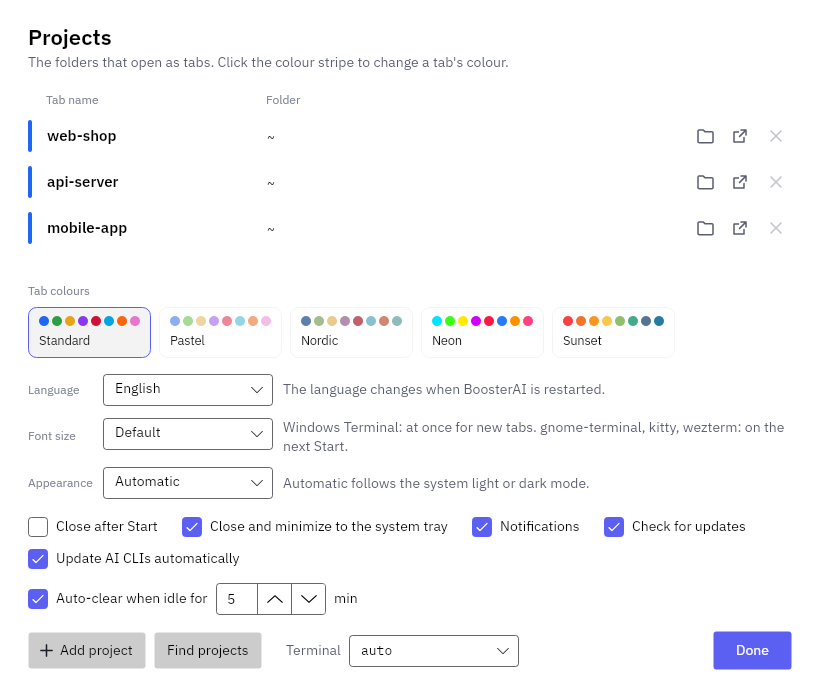
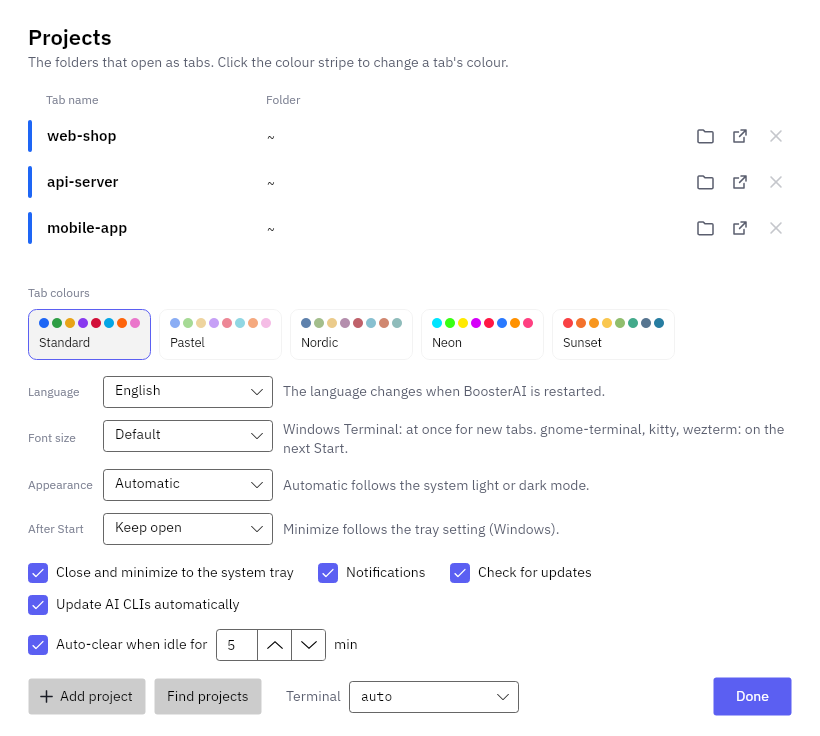
Keep the window open after Start by default, with an After Start setting (#72)
Start always minimized the window, which with the tray setting on hid it and
looked like BoosterAI had closed. The Close after Start checkbox is replaced by
After Start: keep open (default), minimize or close. An old
CloseAfterLaunch=true without AfterLaunch reads as close. Windows still shows
the tray icon after Start when the window stays open.

diff --git a/src/BoosterAI/Config.cs b/src/BoosterAI/Config.cs
@@ -34,9 +34,10 @@ public sealed class AppConfig
     public string Language { get; set; } = Loc.Auto;
     /// <summary>App appearance: "auto" (follow the system), "light" or "dark". Applied live. Not the tab colour themes.</summary>
     public string AppTheme { get; set; } = "auto";
-    /// <summary>Close after Start (the behaviour before tab monitoring) instead of watching the tabs from the tray.</summary>
-    public bool CloseAfterLaunch { get; set; }
-    /// <summary>Windows: the close button and Minimize hide the window to the tray icon, where the tabs stay watched. Needs a working tray; Close after Start wins.</summary>
+    /// <summary>What the window does after Start: "keep" (stays open, default), "minimize" or "close", see <see cref="AfterLaunchPolicy"/>.
+    /// An old config with <c>"CloseAfterLaunch": true</c> and no value here reads as "close" (<see cref="ConfigStore.Parse"/>).</summary>
+    public string AfterLaunch { get; set; } = AfterLaunchPolicy.Keep;
+    /// <summary>Windows: the close button and Minimize hide the window to the tray icon, where the tabs stay watched. Needs a working tray; "close after Start" closes the app regardless.</summary>
     public bool MinimizeToTray { get; set; } = true;
     /// <summary>System notification when a watched tab closes, fails to start or its CLI fails.</summary>
     public bool Notifications { get; set; } = true;
@@ -87,7 +88,7 @@ public static class ConfigStore
         {
             if (File.Exists(PathOnDisk))
             {
-                var cfg = JsonSerializer.Deserialize(File.ReadAllText(PathOnDisk), ConfigJsonContext.Default.AppConfig);
+                var cfg = Parse(File.ReadAllText(PathOnDisk));
                 if (cfg is not null) return cfg;
             }
         }
@@ -98,12 +99,26 @@ public static class ConfigStore
         return Defaults();
     }
 
+    /// <summary>Deserializes a config file and migrates old settings: no "AfterLaunch" but <c>"CloseAfterLaunch": true</c> means close.</summary>
+    public static AppConfig? Parse(string json)
+    {
+        var cfg = JsonSerializer.Deserialize(json, ConfigJsonContext.Default.AppConfig);
+        if (cfg is null) return null;
+        using var doc = JsonDocument.Parse(json);
+        var root = doc.RootElement;
+        if (root.ValueKind == JsonValueKind.Object && !root.TryGetProperty(nameof(AppConfig.AfterLaunch), out _)
+            && root.TryGetProperty("CloseAfterLaunch", out var old) && old.ValueKind == JsonValueKind.True)
+            cfg.AfterLaunch = AfterLaunchPolicy.Close;
+        cfg.AfterLaunch = AfterLaunchPolicy.Normalize(cfg.AfterLaunch);
+        return cfg;
+    }
+
     /// <summary>The config as it is on disk now, or null when there is none or it cannot be read; never migrates.</summary>
     public static AppConfig? TryRead()
     {
         try
         {
-            return File.Exists(PathOnDisk) ? JsonSerializer.Deserialize(File.ReadAllText(PathOnDisk), ConfigJsonContext.Default.AppConfig) : null;
+            return File.Exists(PathOnDisk) ? Parse(File.ReadAllText(PathOnDisk)) : null;
         }
         catch (Exception e) when (e is IOException or JsonException or UnauthorizedAccessException) { return null; }
     }
@@ -144,7 +159,7 @@ public static class ConfigMerge
         S(c => c.ColorTheme, (c, v) => c.ColorTheme = v),
         S(c => c.Language, (c, v) => c.Language = v),
         S(c => c.AppTheme, (c, v) => c.AppTheme = v),
-        S(c => c.CloseAfterLaunch, (c, v) => c.CloseAfterLaunch = v),
+        S(c => c.AfterLaunch, (c, v) => c.AfterLaunch = v),
         S(c => c.MinimizeToTray, (c, v) => c.MinimizeToTray = v),
         S(c => c.Notifications, (c, v) => c.Notifications = v),
         S(c => c.ZoomPercent, (c, v) => c.ZoomPercent = v),

diff --git a/tests/BoosterAI.Tests/AfterLaunchTests.cs b/tests/BoosterAI.Tests/AfterLaunchTests.cs
@@ -1,0 +1,74 @@
+using BoosterAI;
+using Xunit;
+
+public class AfterLaunchPolicyTests
+{
+    [Theory]
+    [InlineData("keep", false, false, false, false)]
+    [InlineData("keep", true, false, true, false)]
+    [InlineData("minimize", false, false, false, true)]
+    [InlineData("minimize", true, false, true, true)]
+    [InlineData("close", false, true, false, false)]
+    [InlineData("close", true, true, false, false)]
+    [InlineData(null, true, false, true, false)]
+    [InlineData("nonsense", false, false, false, false)]
+    public void DecidesTheWindowActionsAfterStart(string? mode, bool windows, bool close, bool tray, bool minimize) =>
+        Assert.Equal((close, tray, minimize), AfterLaunchPolicy.Decide(mode, windows));
+
+    [Fact]
+    public void DefaultKeepsTheWindowOpen() => Assert.Equal("keep", new AppConfig().AfterLaunch);
+}
+
+[Collection(ConfigFileCollection.Name)]
+public class AfterLaunchConfigTests : IDisposable
+{
+    private readonly string _root = Path.Combine(Path.GetTempPath(), "bs-after-" + Guid.NewGuid().ToString("N"));
+
+    public AfterLaunchConfigTests()
+    {
+        Directory.CreateDirectory(_root);
+        ConfigStore.UseFile(Path.Combine(_root, "config.json"));
+    }
+
+    public void Dispose() => Directory.Delete(_root, recursive: true);
+
+    private static AppConfig Load(string json)
+    {
+        File.WriteAllText(ConfigStore.PathOnDisk, json);
+        return ConfigStore.Load();
+    }
+
+    [Fact]
+    public void OldCloseAfterLaunchTrueMeansClose() =>
+        Assert.Equal("close", Load("""{"CloseAfterLaunch": true, "Tabs": []}""").AfterLaunch);
+
+    [Theory]
+    [InlineData("""{"CloseAfterLaunch": false}""")]
+    [InlineData("""{"Tabs": []}""")]
+    [InlineData("""{"AfterLaunch": "bogus"}""")]
+    public void MissingOrOldFalseOrUnknownKeepsOpen(string json) => Assert.Equal("keep", Load(json).AfterLaunch);
+
+    [Fact]
+    public void NewValueWinsOverTheOldOne() =>
+        Assert.Equal("minimize", Load("""{"CloseAfterLaunch": true, "AfterLaunch": "minimize"}""").AfterLaunch);
+
+    [Theory]
+    [InlineData("keep")]
+    [InlineData("minimize")]
+    [InlineData("close")]
+    public void ValueRoundTrips(string mode)
+    {
+        ConfigStore.Save(new AppConfig { AfterLaunch = mode });
+        Assert.Equal(mode, ConfigStore.Load().AfterLaunch);
+        Assert.Equal(mode, ConfigStore.TryRead()!.AfterLaunch);
+    }
+
+    [Fact]
+    public void ViewModelChoiceIsStored()
+    {
+        var vm = new MainViewModel(new AppConfig { AfterLaunch = "close" });
+        Assert.Equal("close", vm.SelectedAfterLaunch.Id);
+        vm.SelectedAfterLaunch = vm.AfterLaunchChoices.Single(c => c.Id == "minimize");
+        Assert.Equal("minimize", vm.AfterLaunch);
+    }
+}

diff --git a/src/BoosterAI/ViewModels.cs b/src/BoosterAI/ViewModels.cs
@@ -442,7 +442,20 @@ public sealed partial class MainViewModel : Observable
     public IReadOnlyList<LanguageChoice> LanguageChoices { get; } =
         [new(Loc.Auto), new("sv"), new("en")];
 
-    public bool CloseAfterLaunch { get => _cfg.CloseAfterLaunch; set { _cfg.CloseAfterLaunch = value; Raise(); } }
+    /// <summary>"After Start" setting: keep the window open, minimize it, or close it.</summary>
+    public IReadOnlyList<AfterLaunchChoice> AfterLaunchChoices { get; } = [.. AfterLaunchPolicy.All.Select(m => new AfterLaunchChoice(m))];
+    public string AfterLaunch => AfterLaunchPolicy.Normalize(_cfg.AfterLaunch);
+
+    public AfterLaunchChoice SelectedAfterLaunch
+    {
+        get => AfterLaunchChoices.First(c => c.Id == AfterLaunch);
+        set
+        {
+            if (value is null || value.Id == AfterLaunch) return;
+            _cfg.AfterLaunch = value.Id;
+            Raise();
+        }
+    }
     public bool MinimizeToTray { get => _cfg.MinimizeToTray; set { _cfg.MinimizeToTray = value; Raise(); } }
     public bool Notifications { get => _cfg.Notifications; set { _cfg.Notifications = value; Raise(); } }
     public bool AutoUpdateClis { get => _cfg.AutoUpdateClis; set { _cfg.AutoUpdateClis = value; Raise(); } }
@@ -627,7 +640,7 @@ public sealed partial class MainViewModel : Observable
     private void SettingsTakenOver()
     {
         foreach (var name in new[] { nameof(WslDistro), nameof(LinuxTerminal), nameof(Theme), nameof(SelectedTheme), nameof(SelectedLanguage),
-            nameof(SelectedAppearance), nameof(CloseAfterLaunch), nameof(MinimizeToTray), nameof(Notifications), nameof(SelectedZoom), nameof(AutoUpdateClis), nameof(AutoClearIdle), nameof(AutoClearMinutes), nameof(CheckForUpdates) })
+            nameof(SelectedAppearance), nameof(SelectedAfterLaunch), nameof(MinimizeToTray), nameof(Notifications), nameof(SelectedZoom), nameof(AutoUpdateClis), nameof(AutoClearIdle), nameof(AutoClearMinutes), nameof(CheckForUpdates) })
             Raise(name);
         foreach (var t in Tabs) t.RaiseColor();
         (Avalonia.Application.Current as App)?.ApplyTheme();
@@ -1196,6 +1209,12 @@ public sealed record LanguageChoice(string Id)
 public sealed record ThemeChoice(string Id)
 {
     public string Label => Loc.Get("theme." + Id);
+}
+
+/// <summary>One entry of the "After Start" picker: "keep", "minimize" or "close".</summary>
+public sealed record AfterLaunchChoice(string Id)
+{
+    public string Label => Loc.Get("afterLaunch." + Id);
 }
 
 /// <summary>One entry of the zoom picker; 0 means the terminal's default size.</summary>

diff --git a/src/BoosterAI/MainWindow.axaml.cs b/src/BoosterAI/MainWindow.axaml.cs
@@ -131,14 +131,12 @@ public partial class MainWindow : Window
     private void OnLaunch(object? sender, RoutedEventArgs e)
     {
         if (!_vm.Launch()) return;
-        if (_vm.CloseAfterLaunch) Close();
-        else
-        {
-            // With the tray setting on (and a tray), minimizing hides the window to the tray icon; otherwise the
-            // taskbar button stays, so the status is one click away. Windows also gets a tray icon either way.
-            if (OperatingSystem.IsWindows() && Application.Current is App app) app.ShowTray(this);
-            WindowState = WindowState.Minimized;
-        }
+        var (close, showTray, minimize) = AfterLaunchPolicy.Decide(_vm.AfterLaunch, OperatingSystem.IsWindows());
+        if (close) { Close(); return; }
+        // Windows gets the tray icon whether the window stays open or is minimized. With the tray setting on (and a
+        // tray), minimizing hides the window to the tray icon; otherwise the taskbar button stays.
+        if (showTray && Application.Current is App app) app.ShowTray(this);
+        if (minimize) WindowState = WindowState.Minimized;
     }
 
     private async void OnUpdateInstall(object? sender, RoutedEventArgs e)

diff --git a/src/BoosterAI/TrayPolicy.cs b/src/BoosterAI/TrayPolicy.cs
@@ -15,3 +15,20 @@ public static class TrayPolicy
     /// <summary>True when minimizing should hide the window from the taskbar and leave only the tray icon.</summary>
     public static bool HideOnMinimize(bool minimizeToTray, bool trayAvailable) => minimizeToTray && trayAvailable;
 }
+
+/// <summary>The "After Start" setting: what the main window does once Start has opened the tabs.</summary>
+public static class AfterLaunchPolicy
+{
+    public const string Keep = "keep", Minimize = "minimize", Close = "close";
+    public static readonly string[] All = [Keep, Minimize, Close];
+
+    /// <summary>An unknown or missing value reads as <see cref="Keep"/>.</summary>
+    public static string Normalize(string? mode) => mode is Minimize or Close ? mode : Keep;
+
+    /// <summary>The window actions after Start. Windows shows the tray icon unless the app closes.</summary>
+    public static (bool Close, bool ShowTray, bool Minimize) Decide(string? mode, bool windows)
+    {
+        mode = Normalize(mode);
+        return (mode == Close, windows && mode != Close, mode == Minimize);
+    }
+}

diff --git a/tests/BoosterAI.Tests/ConfigSaveTests.cs b/tests/BoosterAI.Tests/ConfigSaveTests.cs
@@ -78,7 +78,7 @@ public class ConfigMergeTests
         var disk = new AppConfig
         {
             WslDistro = "Debian", LinuxTerminal = "kitty", ColorTheme = "Other", Language = "en", AppTheme = "dark",
-            CloseAfterLaunch = true, MinimizeToTray = false, Notifications = false, ZoomPercent = 80, AutoUpdateClis = false, CheckForUpdates = false,
+            AfterLaunch = "close", MinimizeToTray = false, Notifications = false, ZoomPercent = 80, AutoUpdateClis = false, CheckForUpdates = false,
             AutoClearIdle = true, AutoClearMinutes = 10,
             SkippedVersion = "9.9.9", LastUpdateCheck = new DateTime(2026, 10, 29, 9, 18, 39, DateTimeKind.Utc),
         };

diff --git a/docs/DETAILS.md b/docs/DETAILS.md
@@ -110,7 +110,7 @@ The setting is read when a tab starts or restarts in place: turn it on, then sta
 
 ## Watching the tabs
 
-After **Start**, BoosterAI stays running and shows a status per tab: *Starting…*, *Running*, *Watching* (Run once only: a turn ended and the CLI waits), *CLI exited (code)*, *CLI not found*, *Did not start*, *Tab closed* or *Lost*. On Windows the window then goes to the tray icon (Windows may tuck it behind the ^ arrow): the close button (X, Alt+F4) and Minimize hide it from the taskbar instead of quitting, and a click on the icon or *Show BoosterAI* brings it back; *Quit* in the icon's menu really quits, as does an update install. This is the *Close and minimize to the system tray* setting (`"MinimizeToTray"` in `config.json`, on by default); with it off, or if the tray icon cannot be shown, Minimize leaves a taskbar button and closing the window quits BoosterAI. *Close after Start* still wins and closes the app after Start. Linux gets no tray icon and keeps that taskbar behaviour, because many desktops (plain GNOME, for example) have no tray. A tab that has closed or whose CLI has exited gets a restart button. The button starts the same AI, model and orchestra choice. If the CLI exited while the tracked shell remains alive, it queues `RestartScript` through `QueueNext` and runs it in that same tab, preserving the title, track and log. The next `cli-start` changes the status back to Running. This also applies to Continue and Run once, regardless of selections edited since launch. PID and `/proc` start time must match; a closed or reused PID is never treated as a live shell. Tabs opened by older builds without the idle-shell restart capability use the closed-tab fallback.
+After **Start**, BoosterAI stays running and shows a status per tab: *Starting…*, *Running*, *Watching* (Run once only: a turn ended and the CLI waits), *CLI exited (code)*, *CLI not found*, *Did not start*, *Tab closed* or *Lost*. What the window does after Start is the *After Start* setting (`"AfterLaunch"` in `config.json`): `keep` (the default) leaves it open, `minimize` minimizes it, `close` closes BoosterAI. An old `"CloseAfterLaunch": true` without `"AfterLaunch"` reads as `close`. On Windows the tray icon is shown after Start in the keep and minimize cases; with *Close and minimize to the system tray* on, minimizing hides the window there (Windows may tuck the icon behind the ^ arrow): the close button (X, Alt+F4) and Minimize hide it from the taskbar instead of quitting, and a click on the icon or *Show BoosterAI* brings it back; *Quit* in the icon's menu really quits, as does an update install. This is the *Close and minimize to the system tray* setting (`"MinimizeToTray"` in `config.json`, on by default); with it off, or if the tray icon cannot be shown, Minimize leaves a taskbar button and closing the window quits BoosterAI. Choosing *Close* after Start closes the app regardless. Linux gets no tray icon and keeps that taskbar behaviour, because many desktops (plain GNOME, for example) have no tray. A tab that has closed or whose CLI has exited gets a restart button. The button starts the same AI, model and orchestra choice. If the CLI exited while the tracked shell remains alive, it queues `RestartScript` through `QueueNext` and runs it in that same tab, preserving the title, track and log. The next `cli-start` changes the status back to Running. This also applies to Continue and Run once, regardless of selections edited since launch. PID and `/proc` start time must match; a closed or reused PID is never treated as a live shell. Tabs opened by older builds without the idle-shell restart capability use the closed-tab fallback.
 
 For a closed or lost tab, Windows keeps `wt -w <session> new-tab`. Linux deliberately opens a new window: Ptyxis `--tab` and gnome-terminal/xfce4-terminal `--tab` select an active/last window, and BoosterAI has no verified target for the session's window. Konsole's `--new-tab` also lacks a verified session target, so each call uses `--separate`. Kitty, wezterm and xterm likewise keep their new-window behavior. This prevents a restart from entering an unrelated terminal window. A batch of closed tabs restarted together shares one fresh window in Ptyxis, gnome-terminal and xfce4-terminal; Konsole and the other terminals use separate windows. If the session window is gone, the same fallback applies. `--dry-run` prints the explicit join-request fallback for every terminal.
 
@@ -126,7 +126,7 @@ The status shows *Running* while terminal output is arriving and *Idle* after 60
 
 **Tabs that already run.** Each started tab saves its choices next to its log (`tabN.tab.json`). When BoosterAI starts, for example after an update, it looks through the session directories for tabs whose shell is still alive (same PID and start time in `/proc`, no *exit* in the log). Each one is matched to the configured tab with the same name and directory and is watched again, with status, restart and in-place restart, and the status line briefly says how many running tabs were found. That startup notice disappears when the first recovered tab changes state (for example its CLI exits or the tab closes), a new launch or restart starts, or another status replaces it. A delayed recovery lookup never overwrites a newer status. A recovered claude tab keeps auto-clear when it was started with it (its log says so). If the choice has changed since that tab was started, it shows *Running – new choice*. **Start** opens only the chosen tabs that are not running: the button counts those, says *All chosen tabs are running* when there are none, and opens new tabs in the window of the newest session it found. A session older than two days is kept while one of its tabs still runs.
 
-When something unexpected happens (a tab closes, does not start, or its CLI exits with an error), BoosterAI shows a system notification. On Windows this is a toast. On Linux it uses `notify-send` when that is installed. In *Settings* you can turn **Notifications** off, and you can choose **Close after Start** to get the old behaviour back.
+When something unexpected happens (a tab closes, does not start, or its CLI exits with an error), BoosterAI shows a system notification. On Windows this is a toast. On Linux it uses `notify-send` when that is installed. In *Settings* you can turn **Notifications** off, and you can set **After Start** to *Close* to get the old behaviour back.
 
 How it works: each Start creates a session folder (`%LOCALAPPDATA%\BoosterAI\sessions\…` on Windows, which WSL writes to through `/mnt/c`, or `~/.local/share/BoosterAI/sessions/…` on Linux) containing a small `tab-lib.sh`. Each tab's shell sources that script, and it appends `start` (PID and start time), `cli-start`, `cli-exit rc=N` and `exit` to the tab's log. Interactive commands run through `script`, which records their output timing (the activity) and the output itself for the status popup (see below). The wrapper keeps `~/.bashrc` aliases and shell functions available. If the library cannot be loaded, the CLI (including Run once) or plain shell still starts in its project directory without tracking, output capture or status hooks, and leaves a normal shell afterwards. Aliases, arguments and explicit continuation are kept; Run once uses plain CLI output instead of the stream formatter. No status log is fabricated, so BoosterAI cannot monitor or restart that fallback shell in place. The app polls the logs every 2 seconds. A shell that is gone without logging `exit` (for example after `wsl --shutdown`) counts as *Lost*. Windows detects this through `\\wsl.localhost\<distro>\proc`. Session folders older than two days are removed.
 

diff --git a/README.md b/README.md
@@ -23,6 +23,7 @@ Start your whole working day with one click: BoosterAI opens every project you w
 - **Find your projects.** *Find projects* searches Documents (or any folder you pick) for git checkouts and folders with an AI instruction file (`AGENTS.md`, `CLAUDE.md`, `AI.md` …) and adds the ones you tick.
 - **Open the folder.** The icon after each project name opens its directory in Explorer (WSL folders included), Finder or your Linux file manager; hover the name to see the path.
 - **Your shell, your setup.** Tabs run through `bash -lic`, so your aliases and `PATH` apply, and you keep a normal shell when the CLI exits.
+- **After Start.** Choose whether the window stays open (default), minimizes (to the tray on Windows when that setting is on) or closes after Start; the tray icon is shown on Windows either way ([details](docs/DETAILS.md)).
 - **Font size.** One setting zooms the CLI text in all tabs.
 - **Themes and language.** Five tab colour themes, an Appearance setting (Auto, Light or Dark, applied at once), in Swedish or English.
 - **Stays up to date.** At start, when its window gets focus and every five minutes while it is active, BoosterAI asks GitHub for a newer release and offers it in a quiet bar: *Update* downloads it, checks it against `SHA256SUMS` and restarts into the new version; When the release carries a one-line summary of what is new, the bar shows it (in the app language, cut with an ellipsis, full text in the tooltip) with *Show more*, which opens the full list of changes since your version on GitHub. *Later* (hides that version for a day) or *Skip this version* (turn the check off in Settings).
